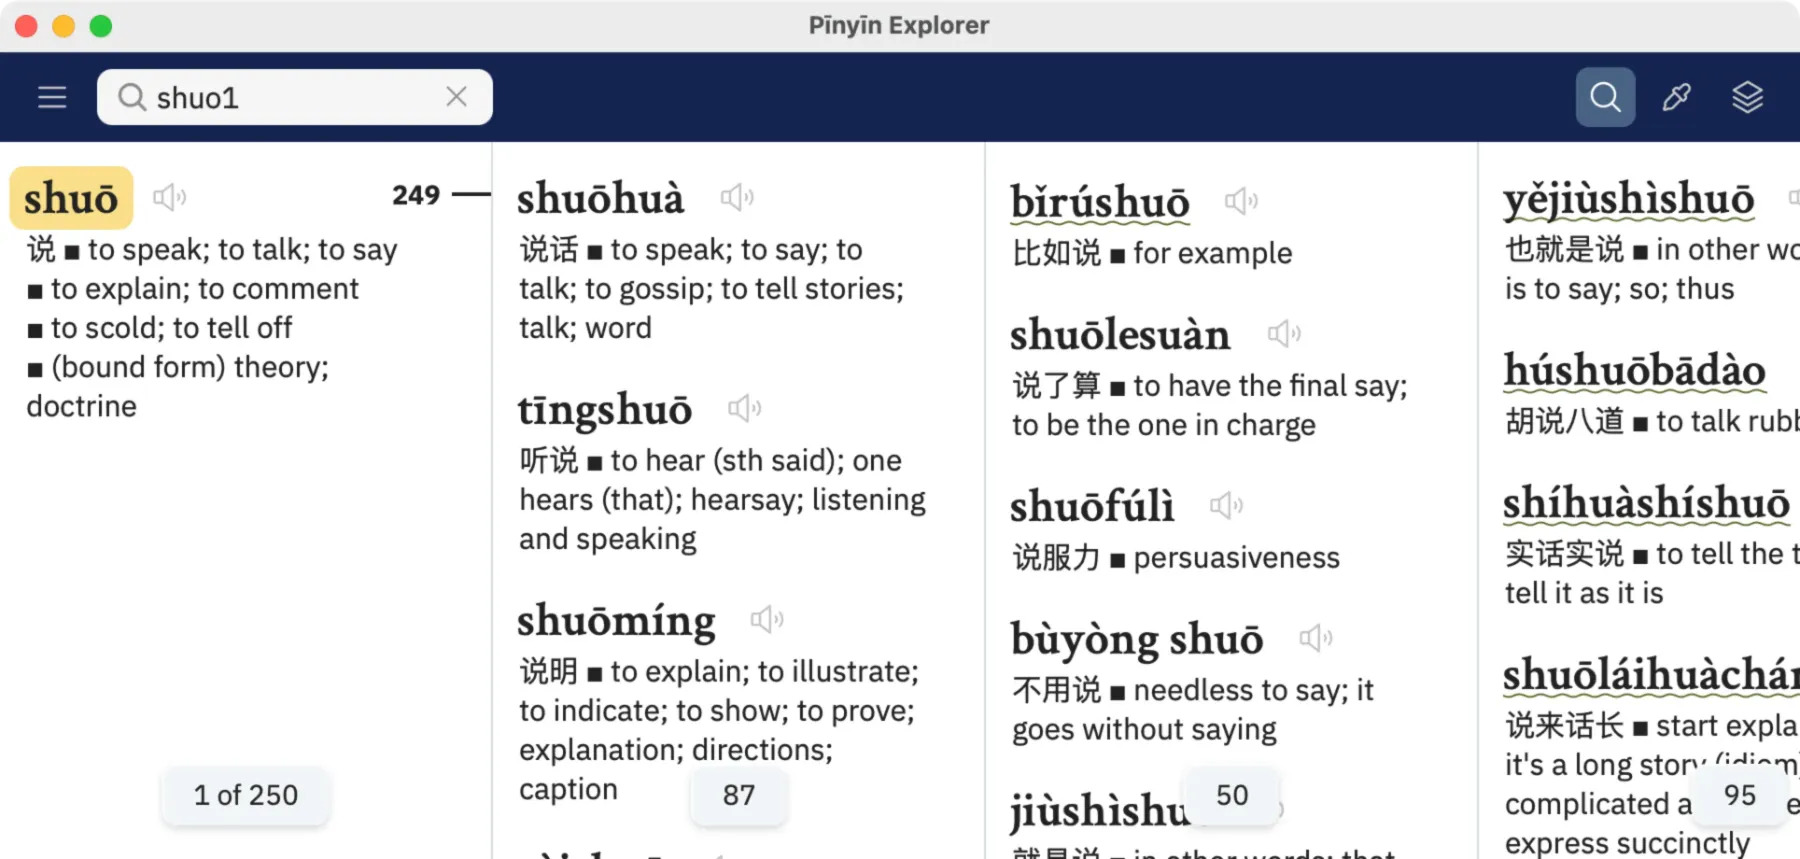
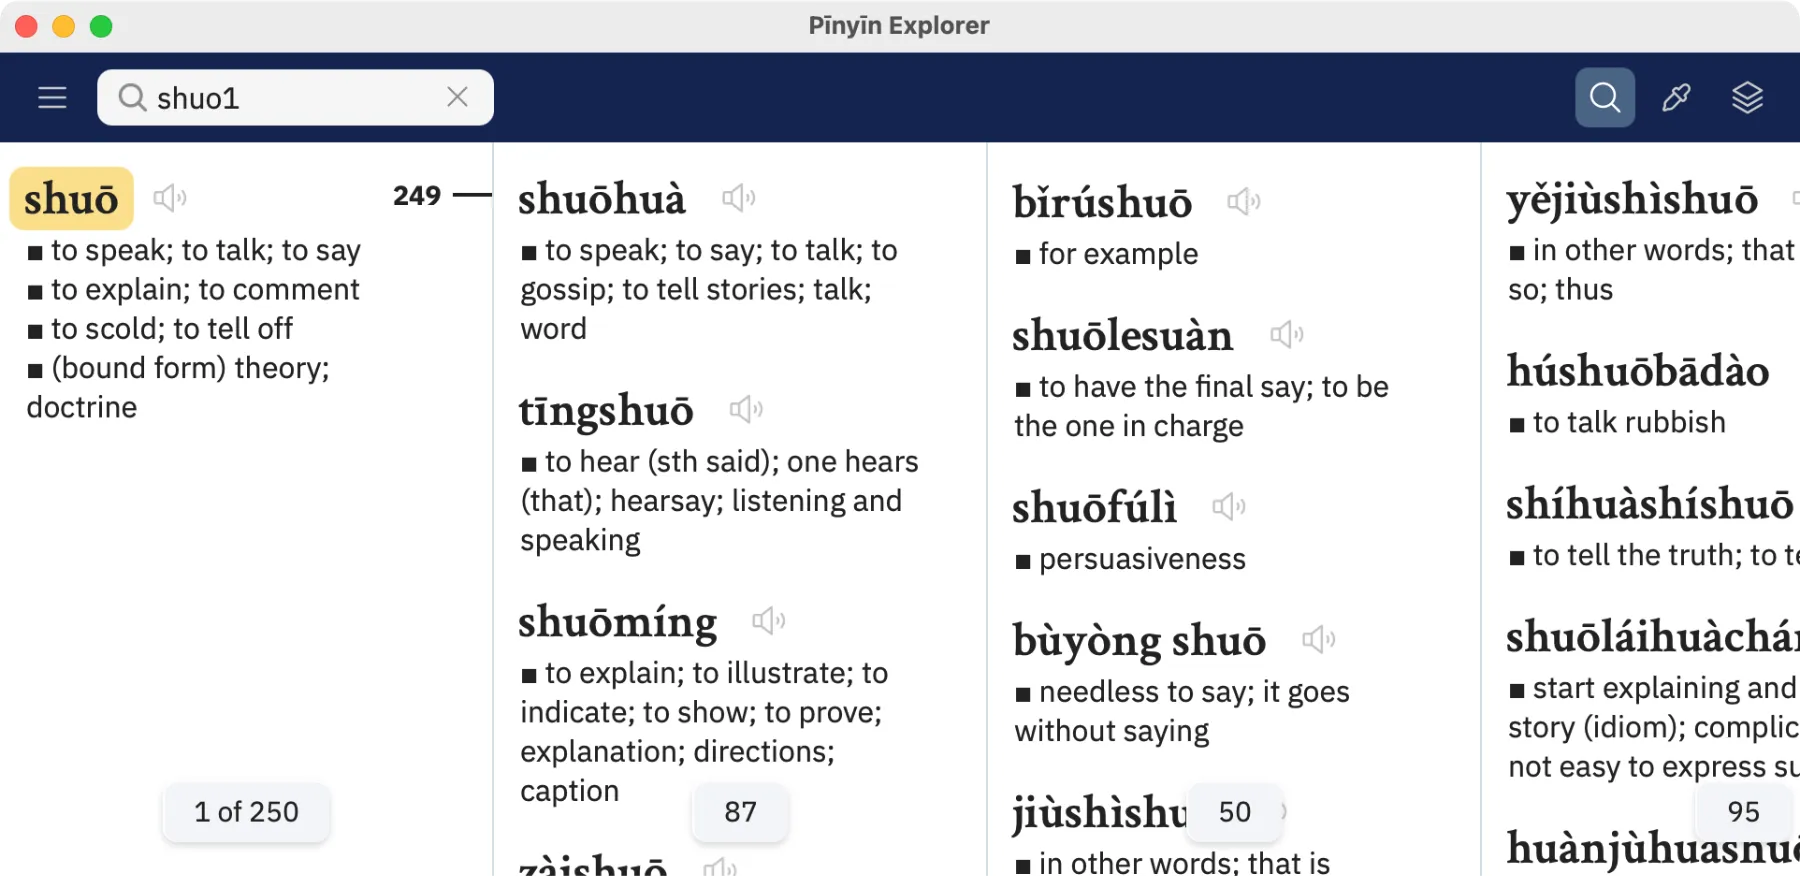
Update home page

diff --git a/content/manifesto.md b/content/manifesto.md
@@ -145,7 +145,7 @@ Some people even find Hànyǔ Pīnyīn a particularly charming use of the Latin 
 
 {{< hero level="h0" title="Your 3-Step Journey" subtitle="The pathway of the Pīnyīn Explorer Method" >}}
 
-{{< hero src="/images/3steps.webp" title="" subtitle="" >}}
+{{< hero src="/images/pinyin_explorer_method_3steps_apps" title="" subtitle="" >}}
 
 A clear, structured pathway to fluent Mandarin reading and progressive text comprehension:
 
@@ -220,7 +220,19 @@ Import text in Hànzì or Hànyǔ Pīnyīn from news, podcast transcripts, or tr
 * **Automatic Orthographic Segmentation:** Powered by our dictionary-guided segmentation engine (*Pīnyīn-Goat*), text written in Chinese characters is automatically converted into natural, readable Pīnyīn sentences following standard orthographic rules (GB/T 16159-2012).
 * **Deep Interactivity:** Hover over words for instant definitions, or click any term to jump straight into deeper exploration inside Pīnyīn Explorer.
 
-### Question: Where do the Pīnyīn transcripts from?
+### Question: But what about the homonyms??!
+Despite heavy homophony in monosyllables, Hànyǔ Pīnyīn functions with near character-level precision for polysyllabic words.
+
+* Two-syllable words are 98.4% unique among the top 3,000 most frequent items
+* For three-syllable words, uniqueness is effectively complete; the remaining non-unique cases reflect orthographic variation rather than genuine lexical ambiguity, arising from variant Chinese character spellings
+
+In practical language use, homophony mainly affects the relatively small set of extremely versatile monosyllabic words such as shì, jí, or yì; but even these are readily resolved by context. For example, in the sentence “Jenny shì Zhōngwén lǎoshī.” any Chinese speaker will naturally interpret shì as the copular verb “to be,” without confusing it with unrelated homophones such as “matter,” “room,” “city,” or “to try.”
+
+However, to guarantee a smooth reading experience, just like with any other alphabetic script, it is crucial that Pīnyīn spelling be accurate (correct spelling of words, word boundaries, no distortion by tone sandhi, etc).
+
+Read the study here: [Empirical Analysis of Hànyǔ Pīnyīn Uniqueness in Mandarin Chinese Lexical Items](https://alfons.github.io/PinyinUniquenessStudy/) 
+
+### Question: Where do I get Pīnyīn transcripts?
 Bring your own, grab them from your favorite podcasts, leverage modern AI tools, copy it over from Google translate, or simply paste Chinese characters directly into the Peekaboo Reader. The built-in engine automatically converts Chinese characters text into natural, readable Pīnyīn sentences following **GB/T 16159-2012** orthographic standards.
 
 Under the hood, Peekaboo Reader uses a two-stage conversion engine engineered specifically for standard-compliant Mandarin:

diff --git a/content/_index.md b/content/_index.md
@@ -5,7 +5,7 @@ description: "Learn Mandarin fast without memorizing Chinese characters. Explore
 url: "/"
 ---
 
-{{< hero level="h0" title="Real Mandarin From Day One." subtitle="You don't need to memorize thousands of Chinese characters to start learning Mandarin. The Pīnyīn Explorer Method takes you straight into authentic modern Mandarin through official Hànyǔ Pīnyīn." >}}
+{{< hero level="h0" title="Read Mandarin From Day One." subtitle="You don't need to memorize thousands of Chinese characters to start learning Mandarin. The Pīnyīn Explorer Method takes you straight into authentic modern Mandarin through official Hànyǔ Pīnyīn." >}}
 
 {{< cta_button text="Download macOS Apps" url="/download/" style="primary" >}}
 
@@ -41,7 +41,7 @@ By treating Hànyǔ Pīnyīn as a standalone orthography, you strip away the cha
 
 {{< hero level="h0" title="Your 3-Step Journey" subtitle="The pathway of the Pīnyīn Explorer Method" >}}
 
-{{< hero src="/images/3steps.webp" title="" subtitle="" >}}
+{{< hero src="/images/pinyin_explorer_method_3steps_apps.webp" title="" subtitle="" >}}
 
 ## 1. Pronunciation & Sound Immersion
 Start with the complete monosyllabic, phonotactic, and morphemic inventory on the **A-Z Soundboard**. Audition every dictionary-backed base word before concerning yourself with meaning. Click, listen, shadow, and group words to build an intuitive phonological foundation and eliminate tone confusion from day one.
